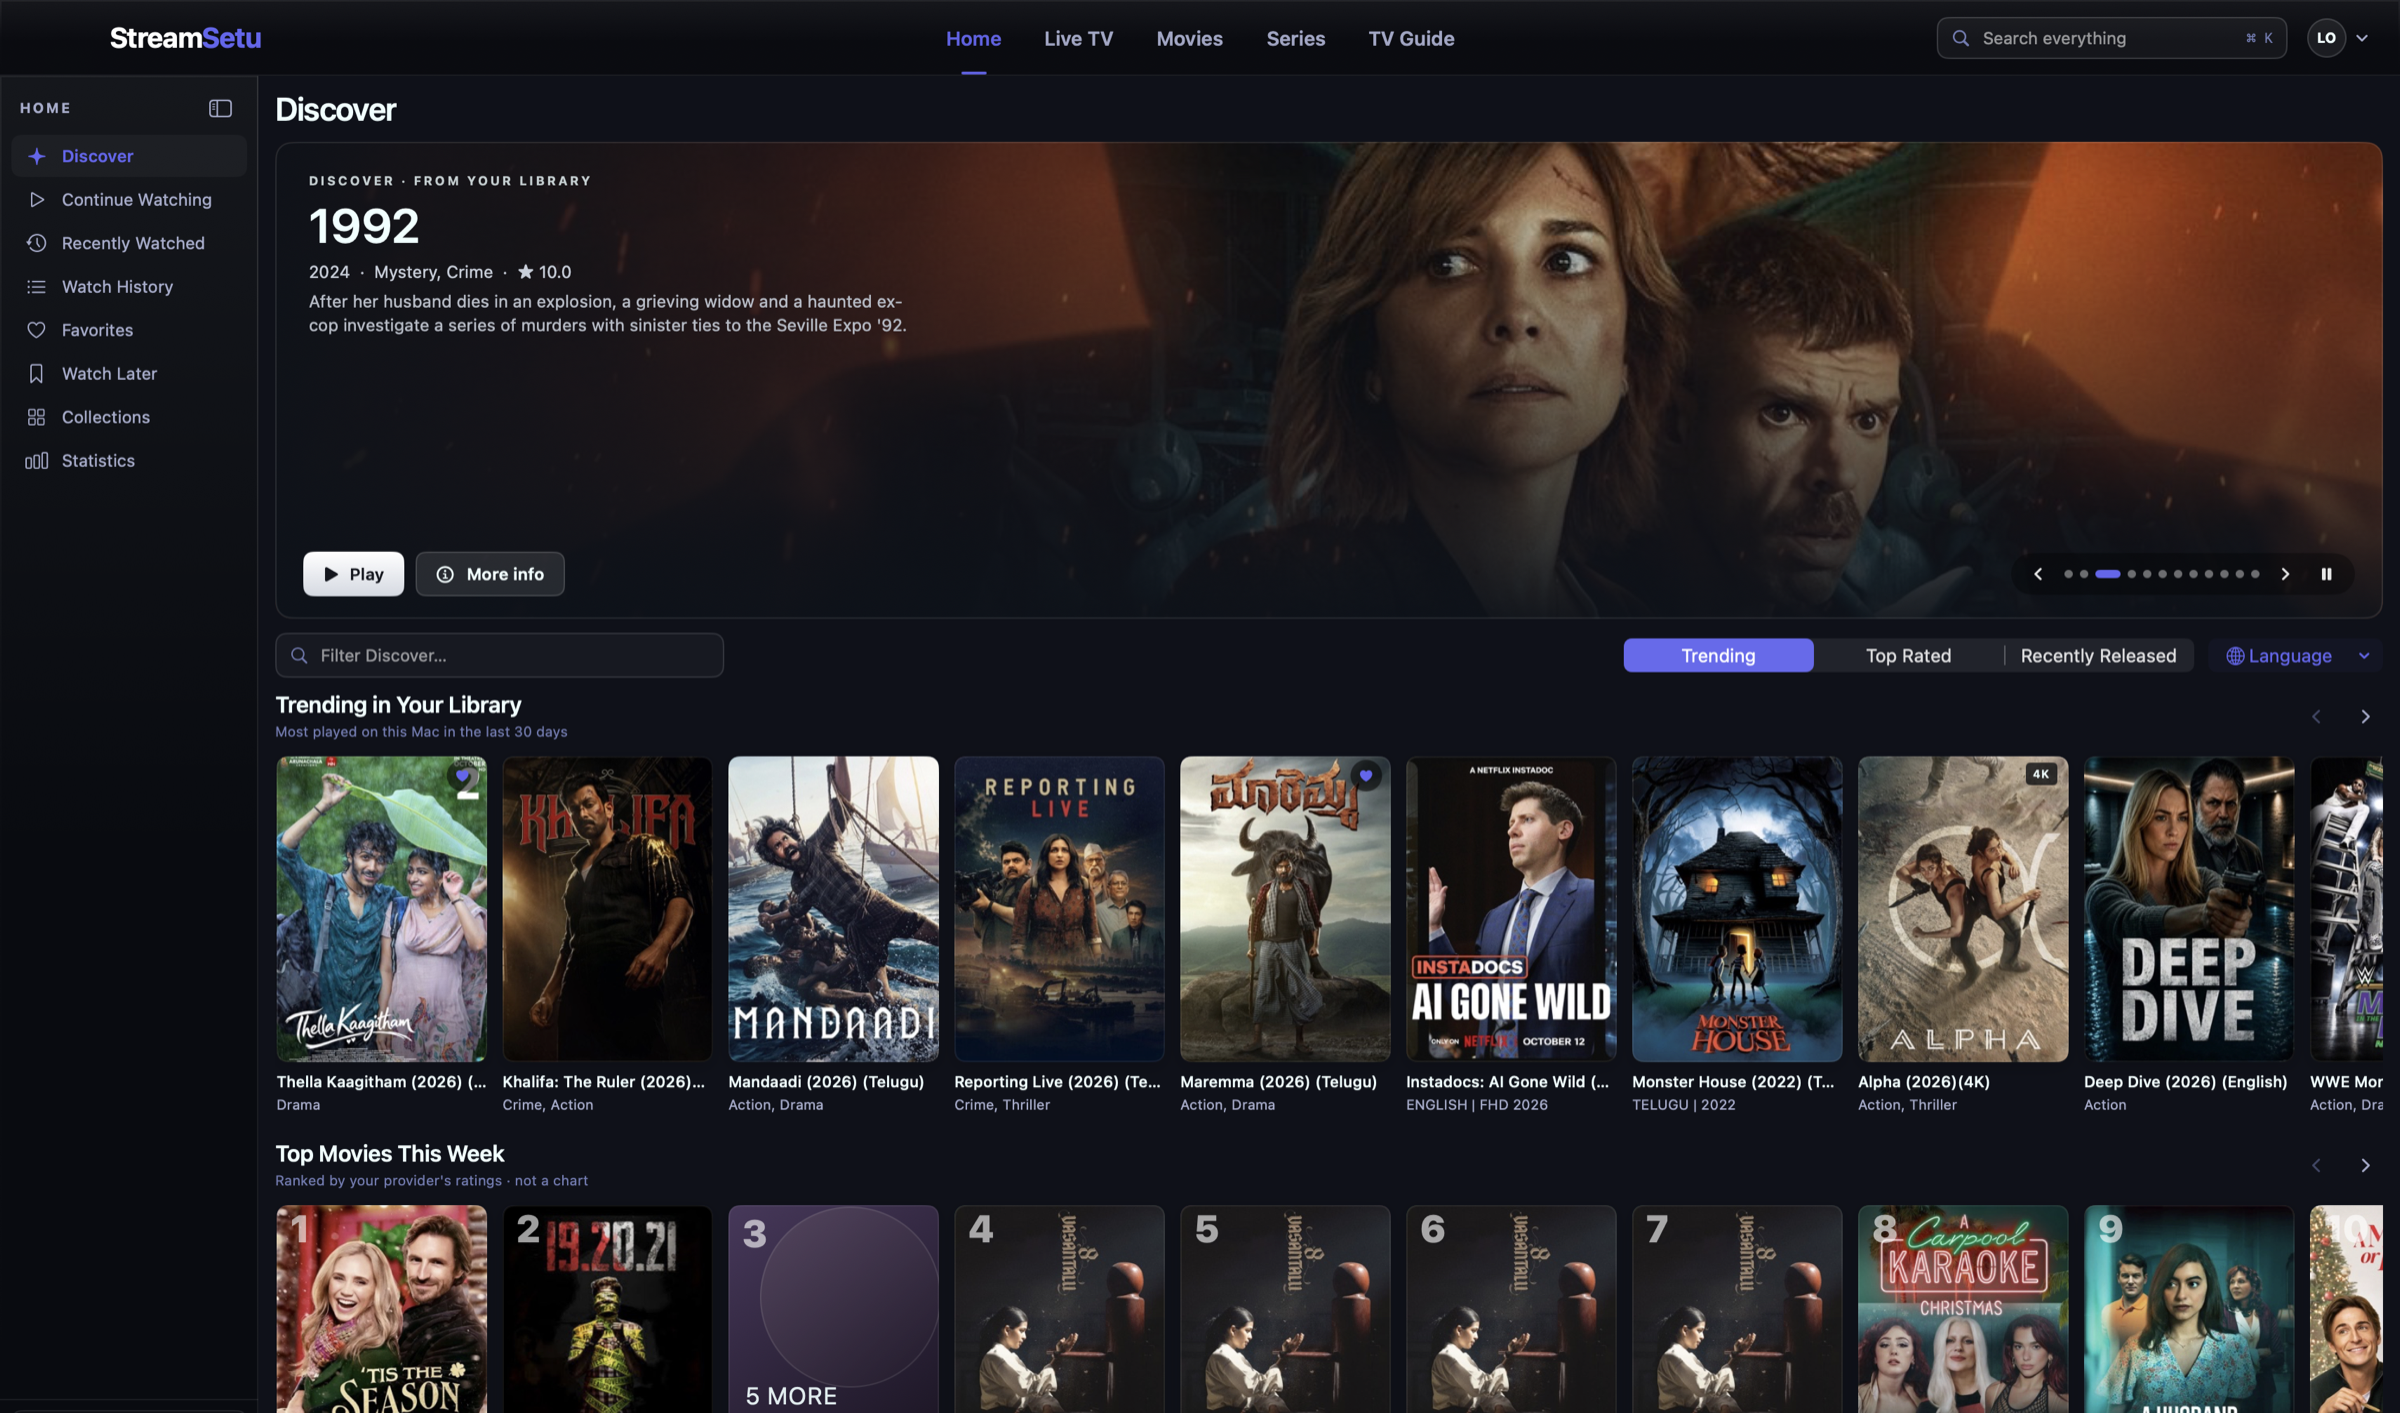
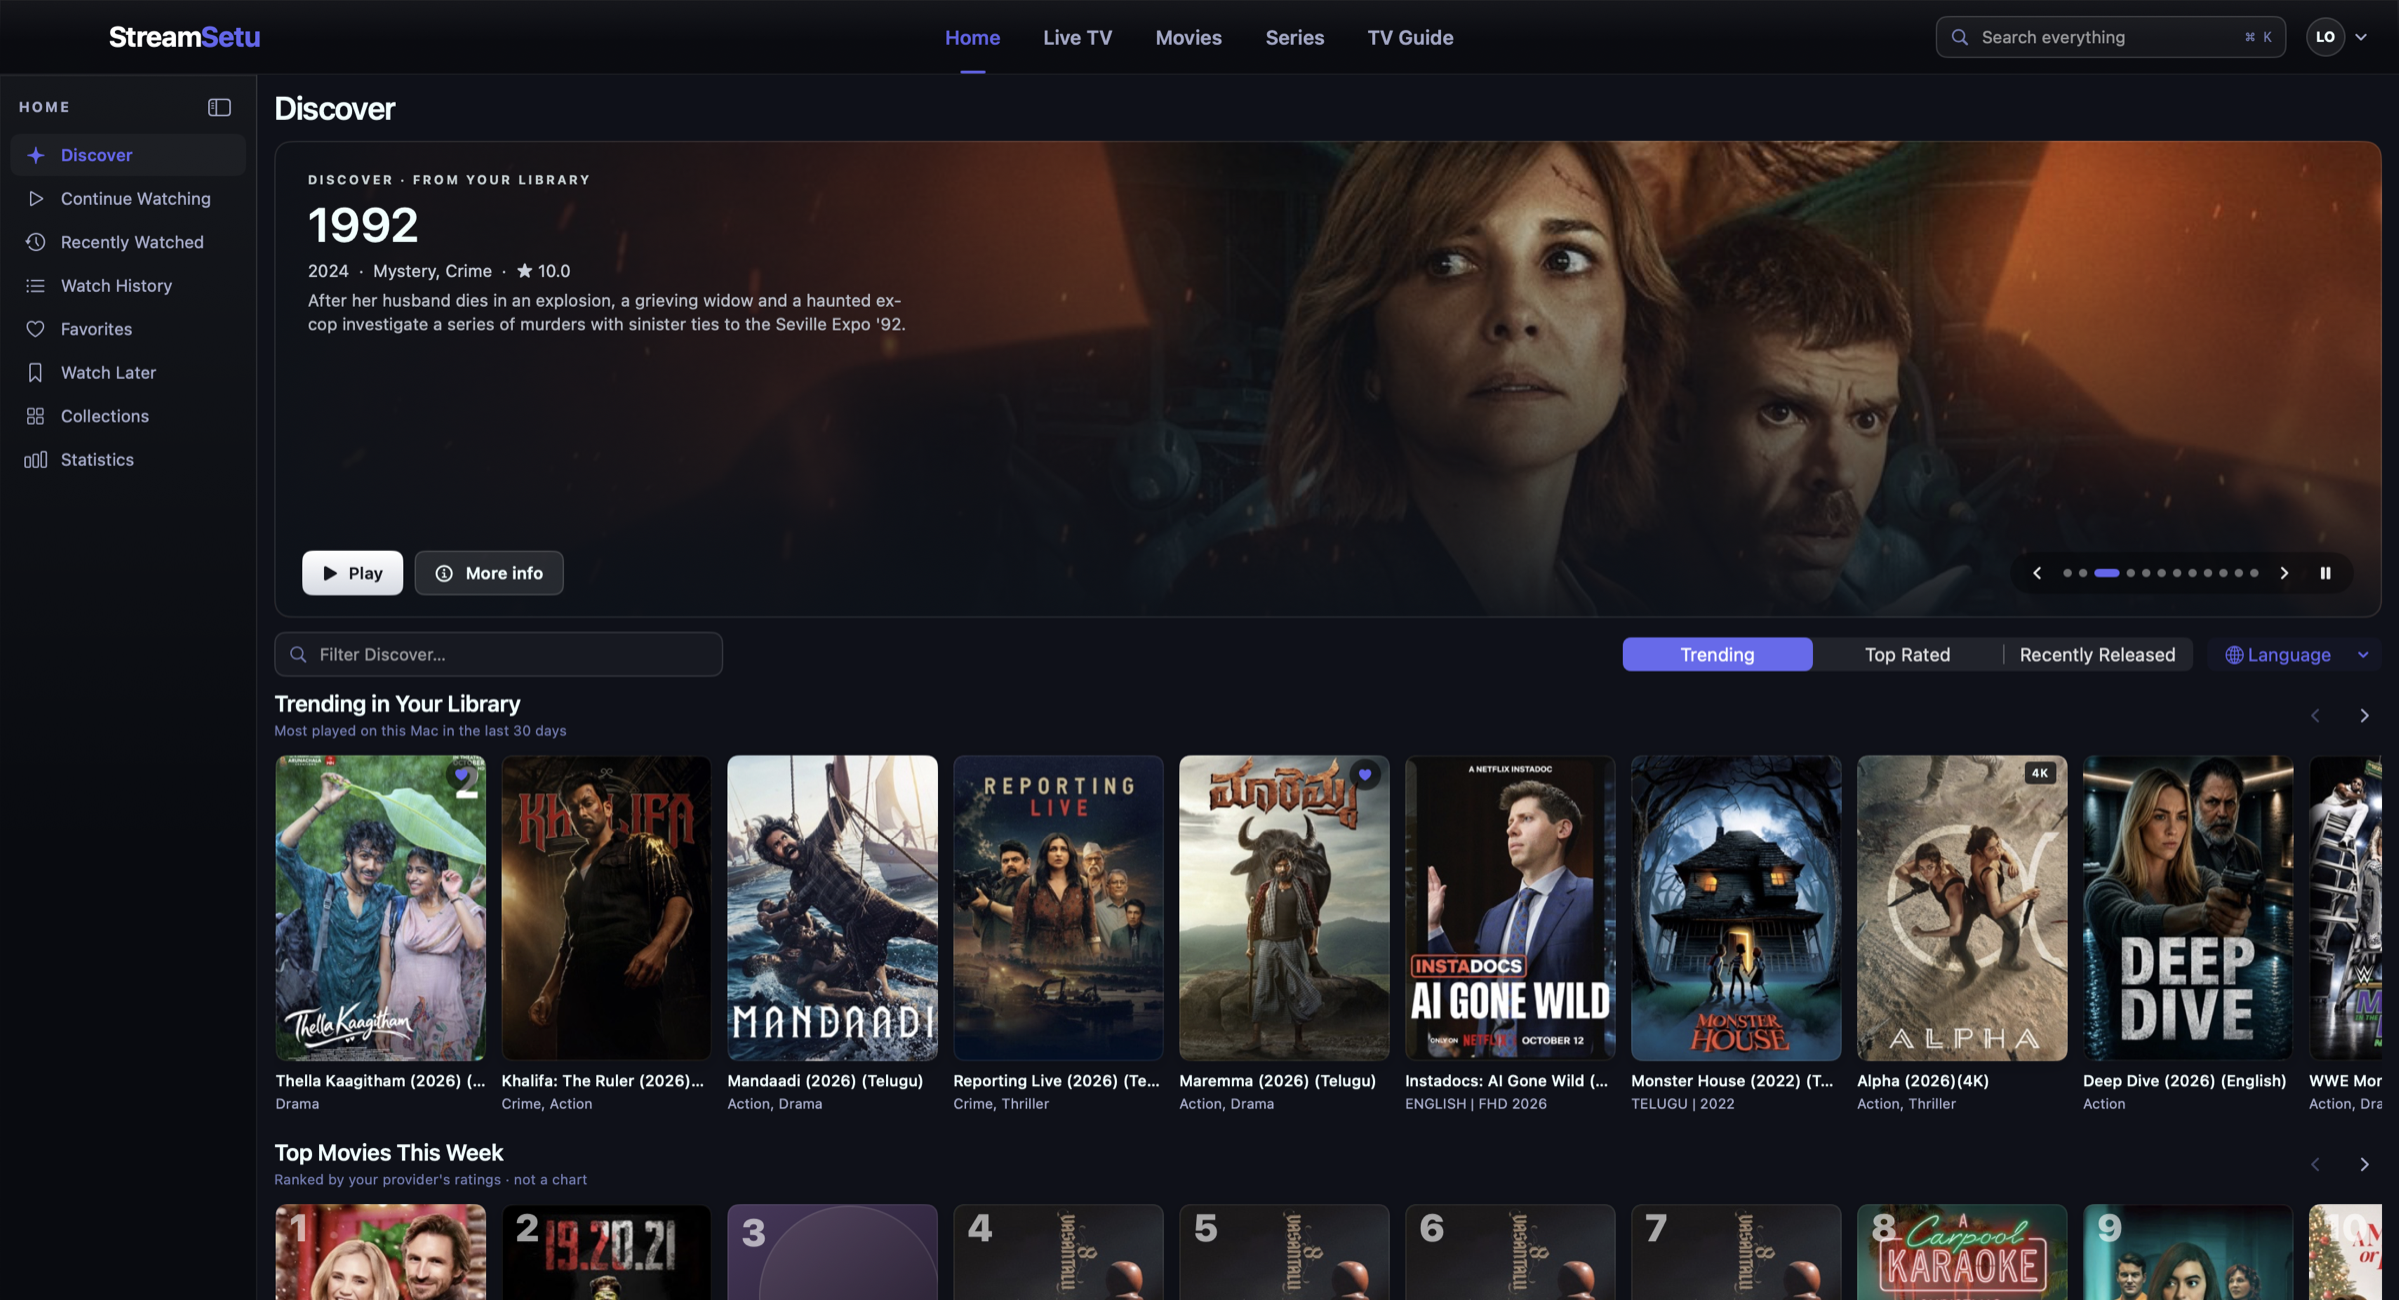
README: align screenshots in tables, same crop for both Mac shots

diff --git a/README.md b/README.md
@@ -14,27 +14,48 @@ StreamSetu is a native player for the IPTV playlists and media servers you alrea
 
 ### Mac
 
-<p>
-  <img src="docs/screenshots/mac-home.png" alt="StreamSetu on Mac: Home with the Discover banner and Trending in Your Library" width="49%">
-  <img src="docs/screenshots/mac-series.png" alt="StreamSetu on Mac: Series with the folder list and poster grid" width="49%">
-</p>
+<table>
+  <tr>
+    <td width="50%" valign="top"><img src="docs/screenshots/mac-home.png" alt="StreamSetu on Mac: Home with the Discover banner and Trending in Your Library" width="100%"></td>
+    <td width="50%" valign="top"><img src="docs/screenshots/mac-series.png" alt="StreamSetu on Mac: Series with the folder list and poster grid" width="100%"></td>
+  </tr>
+  <tr>
+    <td align="center"><sub>Home</sub></td>
+    <td align="center"><sub>Series</sub></td>
+  </tr>
+</table>
 
 ### Fire TV and Android TV
 
-<p>
-  <img src="docs/screenshots/firetv-home-sidebar.png" alt="StreamSetu on Fire TV: Home with the sidebar open" width="32%">
-  <img src="docs/screenshots/firetv-movies.png" alt="StreamSetu on Fire TV: Movies with folders and posters" width="32%">
-  <img src="docs/screenshots/firetv-series.png" alt="StreamSetu on Fire TV: Series with a featured banner" width="32%">
-</p>
+<table>
+  <tr>
+    <td width="33%" valign="top"><img src="docs/screenshots/firetv-home-sidebar.png" alt="StreamSetu on Fire TV: Home with the sidebar open" width="100%"></td>
+    <td width="33%" valign="top"><img src="docs/screenshots/firetv-movies.png" alt="StreamSetu on Fire TV: Movies with folders and posters" width="100%"></td>
+    <td width="33%" valign="top"><img src="docs/screenshots/firetv-series.png" alt="StreamSetu on Fire TV: Series with a featured banner" width="100%"></td>
+  </tr>
+  <tr>
+    <td align="center"><sub>Home, sidebar open</sub></td>
+    <td align="center"><sub>Movies</sub></td>
+    <td align="center"><sub>Series</sub></td>
+  </tr>
+</table>
 
 ### iPhone
 
-<p>
-  <img src="docs/screenshots/ios-home.png" alt="StreamSetu on iPhone: Home" width="24%">
-  <img src="docs/screenshots/ios-live.png" alt="StreamSetu on iPhone: Live TV channel grid" width="24%">
-  <img src="docs/screenshots/ios-movies.png" alt="StreamSetu on iPhone: Movies" width="24%">
-  <img src="docs/screenshots/ios-series.png" alt="StreamSetu on iPhone: Series" width="24%">
-</p>
+<table>
+  <tr>
+    <td width="25%" valign="top"><img src="docs/screenshots/ios-home.png" alt="StreamSetu on iPhone: Home" width="100%"></td>
+    <td width="25%" valign="top"><img src="docs/screenshots/ios-live.png" alt="StreamSetu on iPhone: Live TV channel grid" width="100%"></td>
+    <td width="25%" valign="top"><img src="docs/screenshots/ios-movies.png" alt="StreamSetu on iPhone: Movies" width="100%"></td>
+    <td width="25%" valign="top"><img src="docs/screenshots/ios-series.png" alt="StreamSetu on iPhone: Series" width="100%"></td>
+  </tr>
+  <tr>
+    <td align="center"><sub>Home</sub></td>
+    <td align="center"><sub>Live TV</sub></td>
+    <td align="center"><sub>Movies</sub></td>
+    <td align="center"><sub>Series</sub></td>
+  </tr>
+</table>
 
 The artwork in these screenshots comes from the provider's own playlist. StreamSetu ships no content.
 
